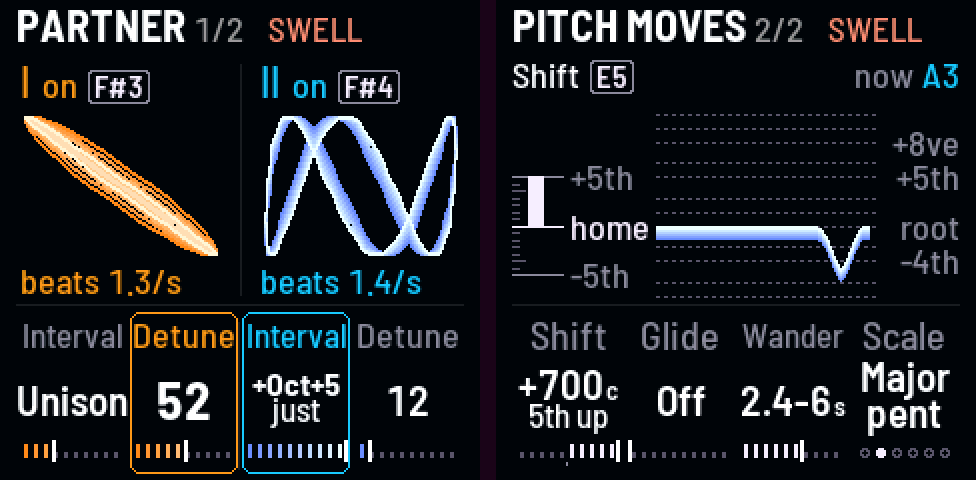
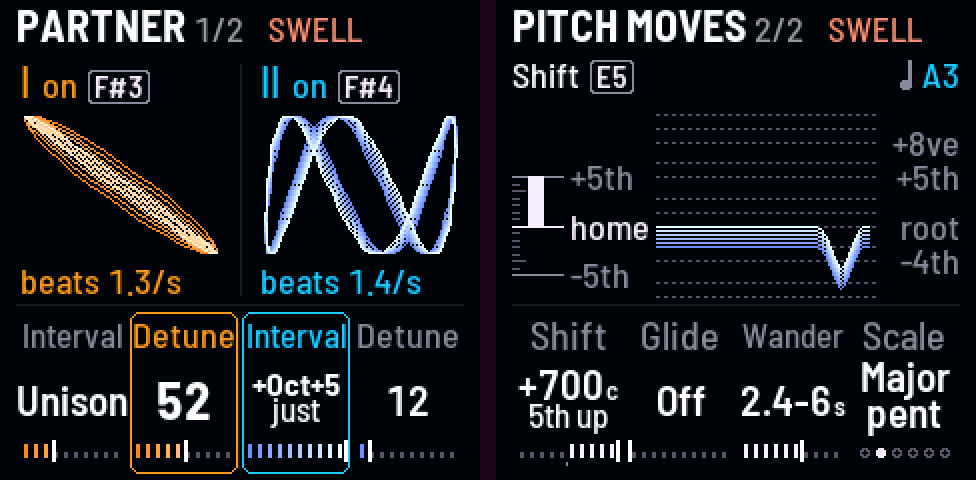
Wander's trail and Partner's knots: 1 px strands with gaps, as the boards; a quarter note for "now" (Evan)

diff --git a/firmware/src/app/look.c b/firmware/src/app/look.c
@@ -854,11 +854,8 @@ static void lk_pic_partner(void)
                 const float sv = (float)q * (float)i / (float)n;
                 const int32_t x = cx + (int32_t)(fm_sinf(6.2831853f * sv) * 48.0f);
                 const int32_t y = cy - (int32_t)(fm_sinf(6.2831853f * sv * (float)p / (float)q + th) * (float)ry);
-                if (i) {
+                if (i)                         /* 1 px, as the boards (Evan, 2026-11-02: 2 px blended them) */
                     cv_line(px, py, x, y, c);
-                    if (on)
-                        cv_line(px, py + 1, x, y + 1, c);
-                }
                 px = x;
                 py = y;
             }
@@ -954,8 +951,10 @@ static void lk_pic_moves(void)
     lk_note(dr_pitch[1] + dr_mac_pitch(1), t);
     {
         const int32_t w = text_w(&LK_F_SMALL, t);
+        const int32_t nb = 1 + LK_B(LK_F_SMALL), nx = 232 - w - 10;   /* a quarter note before it (Evan) */
         cv_text(232 - w, 1, &LK_F_SMALL, t, LK_DRONE[1]);
-        cv_text(232 - w - 4 - text_w(&LK_F_SMALL, "now"), 1, &LK_F_SMALL, "now", LK_LABEL);
+        cv_round(nx - 1, nb - 4, 6, 5, 2, LK_LABEL);
+        cv_rect(nx + 3, nb - 14, 2, 12, LK_LABEL);
     }
     /* Shift: the fifths, home, a tick a semitone */
     for (k = -7; k <= 7; k++) {
@@ -998,12 +997,12 @@ static void lk_pic_moves(void)
                 ly = y;
             }
         }
-    {   /* drone II's trail, six strands a pixel apart, the light one on top */
-        int16_t yy[LK_WN];
+    {   /* drone II's trail, six 1 px strands 2 px apart (Evan, 2026-11-02: a pixel apart they blended), the light
+         * one on top */
         for (k = LK_STRANDS - 1; k >= 0; k--) {
-            for (i = 0; i < LK_WN; i++)
-                yy[i] = (int16_t)(LK_SY(lk_wtrail[i]) + k);
-            lk_plot(80, yy, LK_WN, lk_ramp(1, 1.0f - (float)k / (float)(LK_STRANDS - 1)));
+            const uint16_t c = lk_ramp(1, 1.0f - (float)k / (float)(LK_STRANDS - 1));
+            for (i = 1; i < LK_WN; i++)
+                cv_line(80 + 2 * (i - 1), LK_SY(lk_wtrail[i - 1]) + 2 * k, 80 + 2 * i, LK_SY(lk_wtrail[i]) + 2 * k, c);
         }
     }
 #undef LK_SY
